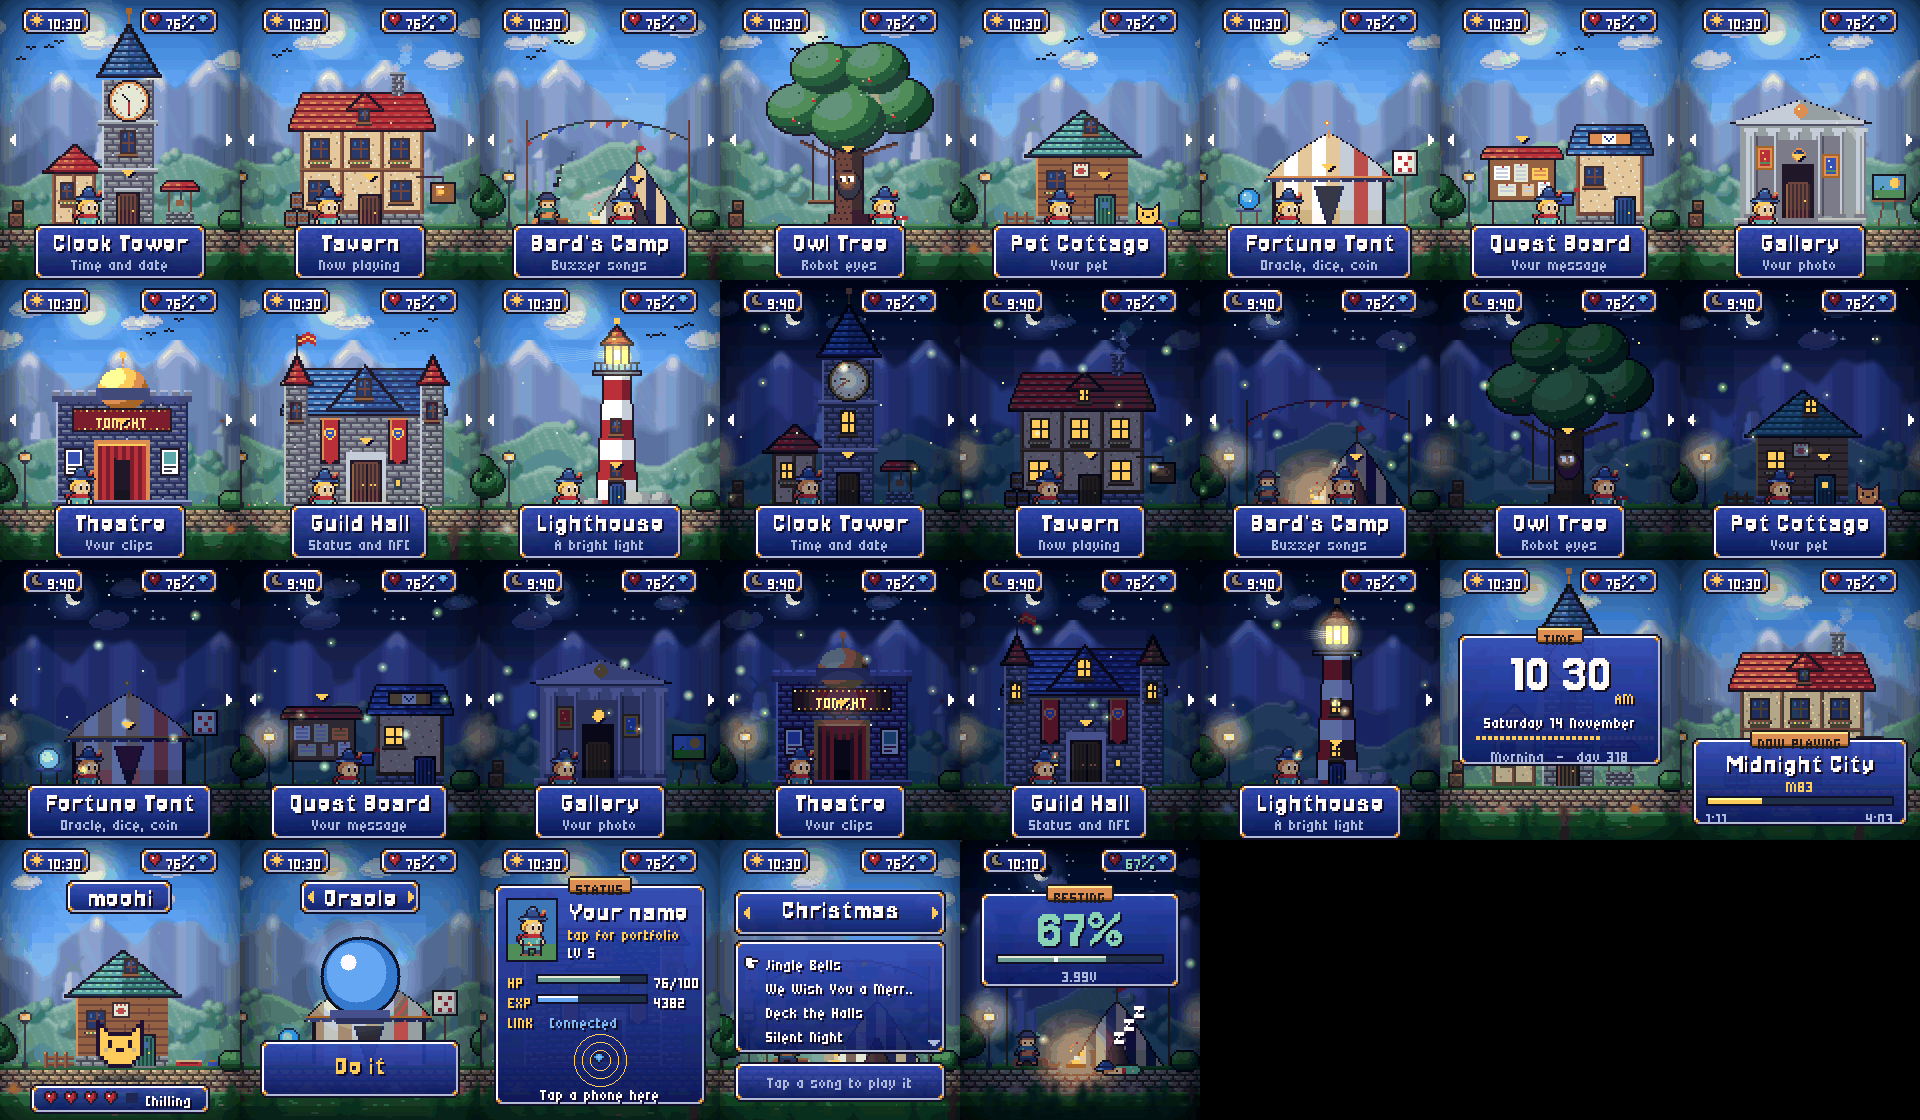
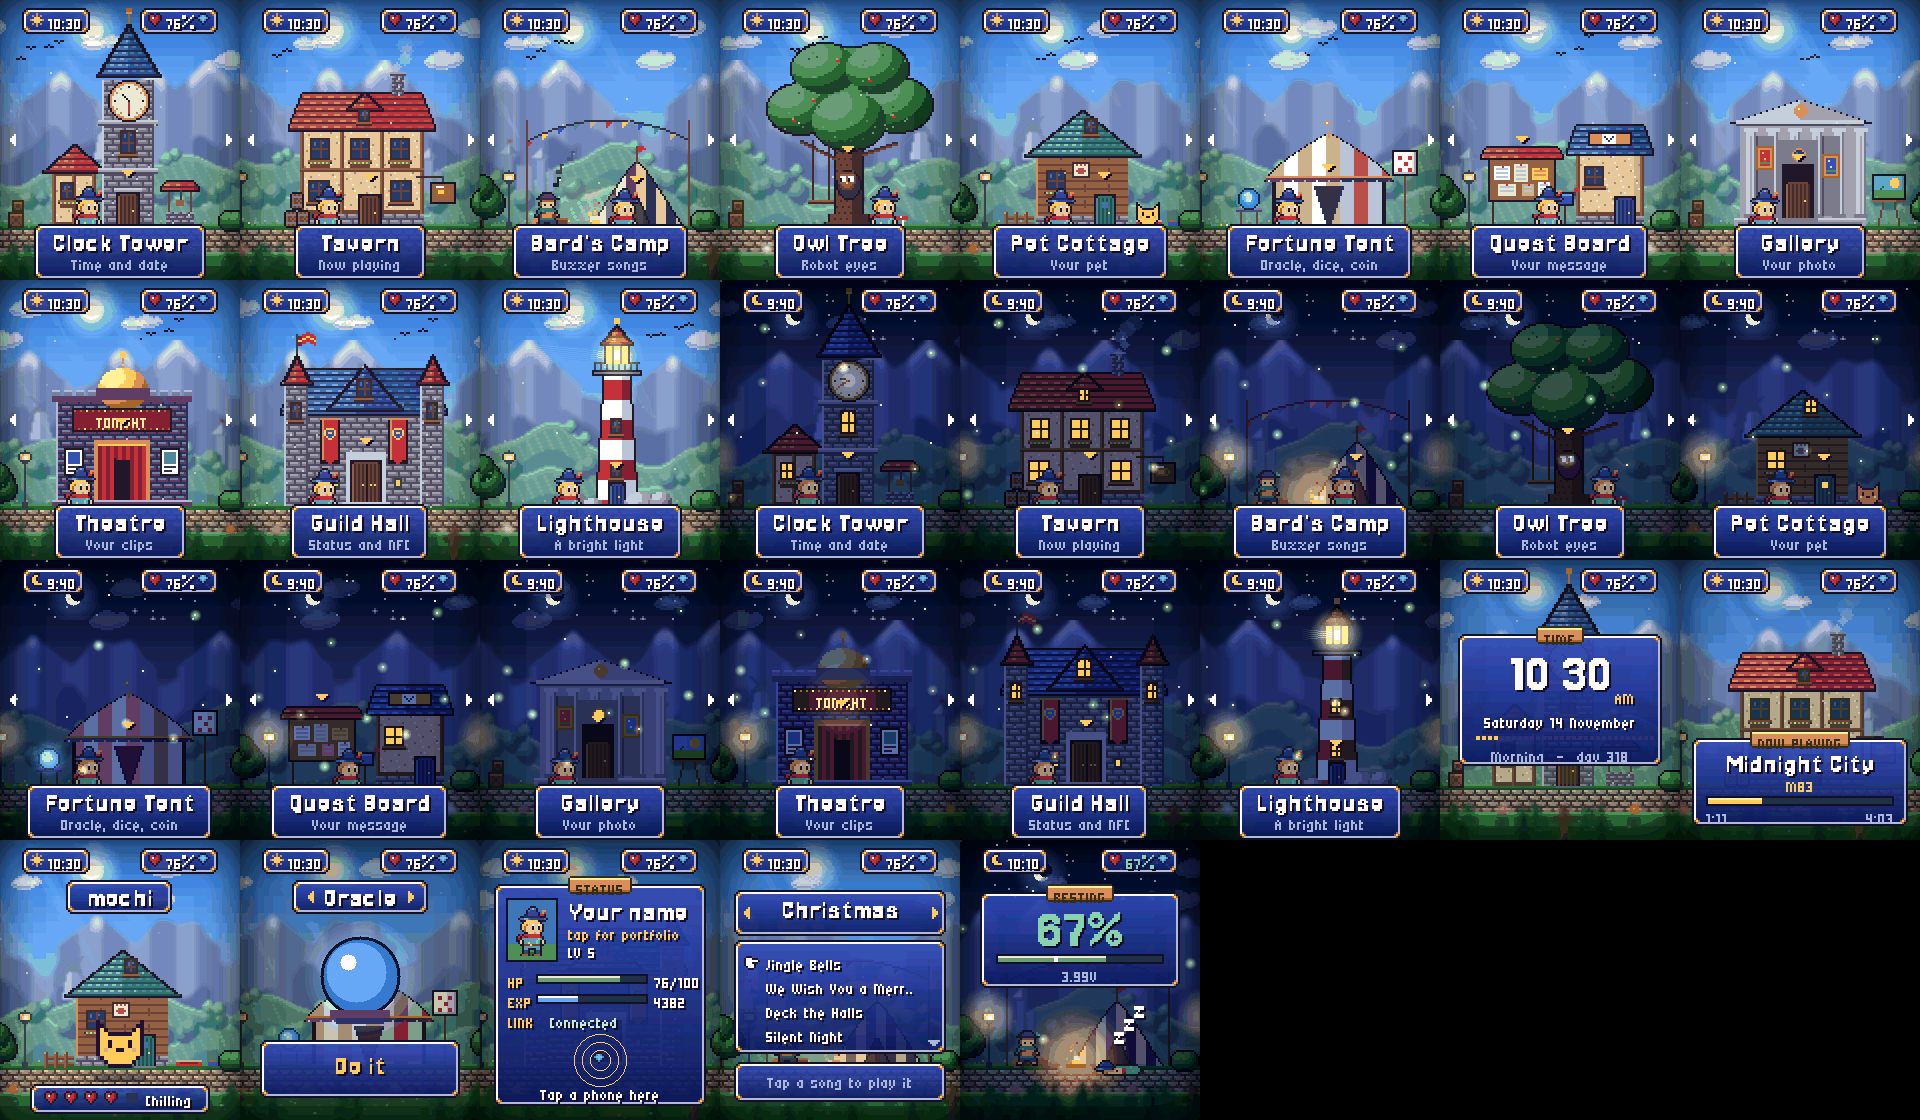
Quest: fix the c in the title font
At 15 px Jersey 15 draws c the same as o, so "Clock Tower" read as
"Clook Tower". c now has a hand-made glyph; preview frames re-rendered.

Claude-Session: https://claude.ai/code/session_01AwGNpFcQ86hfr8y18yenLT

diff --git a/firmware/LarpCharm/questart.h b/firmware/LarpCharm/questart.h
@@ -2127,7 +2127,7 @@ const QGlyph QF_TITLE_G[95] PROGMEM = {
   {2,2,0,-9,2,468},
   {5,6,1,-6,7,470},
   {5,8,1,-8,7,476},
-  {5,6,1,-6,7,484},
+  {5,6,0,-6,7,484},
   {5,8,1,-8,7,490},
   {5,6,1,-6,7,498},
   {4,8,1,-8,5,504},
@@ -2172,7 +2172,7 @@ const uint8_t QF_TITLE_D[685] PROGMEM = {
   96,152,152,152,152,152,152,248,248,152,152,152,152,152,216,248,32,155,155,155,155,155,251,110,36,152,152,248,112,112,216,152,
   152,140,140,140,216,112,32,32,32,248,248,24,48,96,192,248,248,224,224,128,128,128,128,128,128,224,224,128,192,192,64,96,
   96,32,32,48,48,224,224,96,96,96,96,96,96,224,224,112,120,140,248,248,192,64,248,248,120,152,248,248,128,128,248,248,
-  152,152,248,240,248,248,152,152,248,112,24,24,120,248,152,152,248,248,248,248,152,248,248,112,112,112,240,240,64,64,64,64,
+  152,152,248,240,120,248,192,192,248,120,24,24,120,248,152,152,248,248,248,248,152,248,248,112,112,112,240,240,64,64,64,64,
   120,248,152,152,248,120,216,112,128,128,248,248,152,152,152,152,128,128,0,128,128,128,128,128,96,96,96,96,96,96,96,96,
   96,192,128,128,176,176,224,224,176,176,128,128,128,128,128,128,128,128,246,255,155,155,155,155,248,248,152,152,152,152,248,248,
   152,152,248,112,248,248,152,152,248,240,128,128,248,248,152,152,248,120,24,24,248,240,128,128,128,128,112,216,240,24,216,248,

diff --git a/firmware/tools/quest/draw.py b/firmware/tools/quest/draw.py
@@ -3,19 +3,22 @@ import numpy as np
 from pal import IDX
 
 class Canvas:
-    def __init__(s, w, h, y0=0, wrap=False):
-        s.w, s.h, s.y0, s.wrap = w, h, y0, wrap
+    def __init__(s, w, h, y0=0, wrap=False, idx=None, wrapy=False):
+        s.w, s.h, s.y0, s.wrap, s.wrapy = w, h, y0, wrap, wrapy
+        s.idx = idx or IDX
         s.a = np.zeros((h, w), np.uint8)
 
     def put(s, x, y, c):
         y -= s.y0
         if s.wrap: x %= s.w
+        if s.wrapy: y %= s.h
         if 0 <= x < s.w and 0 <= y < s.h and c is not None:
-            s.a[y, x] = IDX[c] if isinstance(c, str) else c
+            s.a[y, x] = s.idx[c] if isinstance(c, str) else c
 
     def get(s, x, y):
         y -= s.y0
         if s.wrap: x %= s.w
+        if s.wrapy: y %= s.h
         if 0 <= x < s.w and 0 <= y < s.h: return s.a[y, x]
         return 0
 

diff --git a/firmware/tools/quest/questart.py b/firmware/tools/quest/questart.py
@@ -39,6 +39,9 @@ def sprite(name, rows, cmap):
     carr(name, a.flatten())
 
 OVERRIDE = {
+  'QF_TITLE': {
+    'c': ['.####', '#####', '##...', '##...', '#####', '.####'],
+  },
   'QF_BODY': {
     '%': ['XX...X', 'XX..X.', '...X..', '..X...', '.X....', 'X...XX', '....XX'],
     '&': ['.XX..', 'X..X.', 'X.X..', '.X...', 'X.X.X', 'X..X.', '.XX.X'],
@@ -61,7 +64,7 @@ def font(name, path, size, chars=range(32, 127)):
             a = np.zeros_like(a)
             for j, row in enumerate(ov):
                 for i, px in enumerate(row):
-                    if px == 'X': a[bot - len(ov) + 1 + j, size + i] = 1
+                    if px in 'X#': a[bot - len(ov) + 1 + j, size + i] = 1
         adv = int(round(F.getlength(ch)))
         ys, xs = np.nonzero(a)
         if len(xs) == 0:
